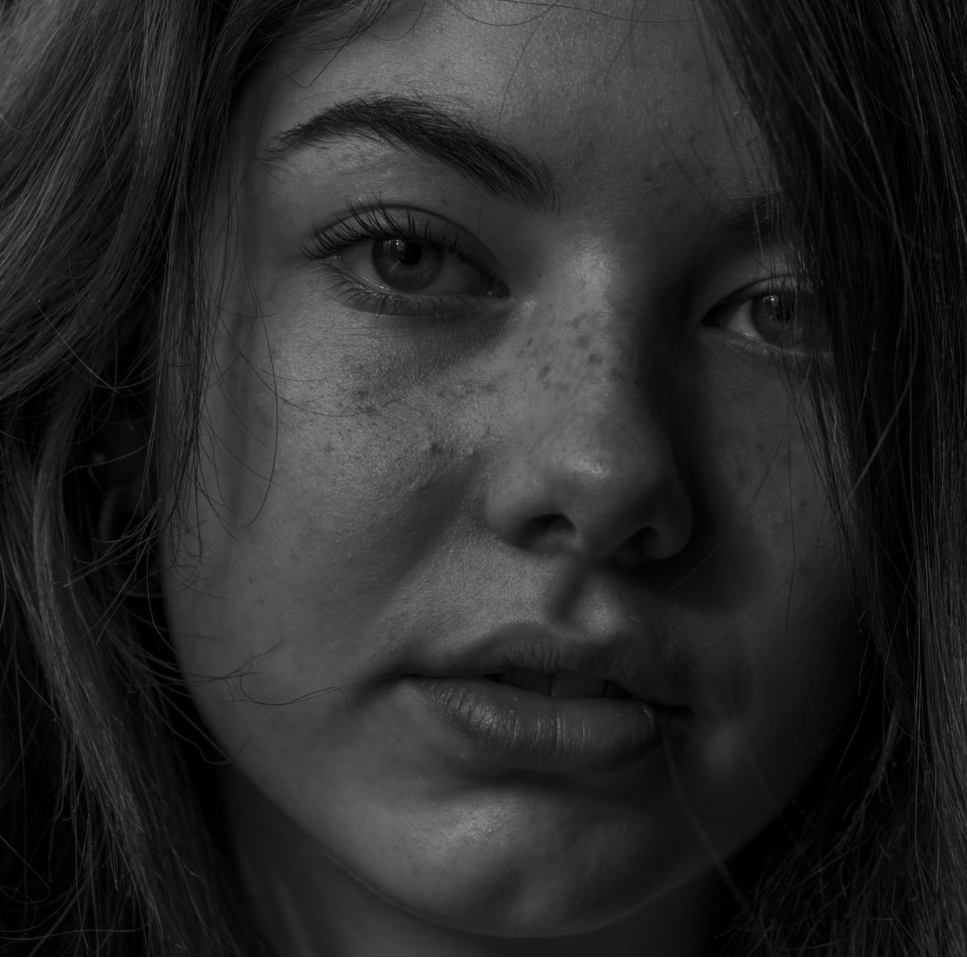
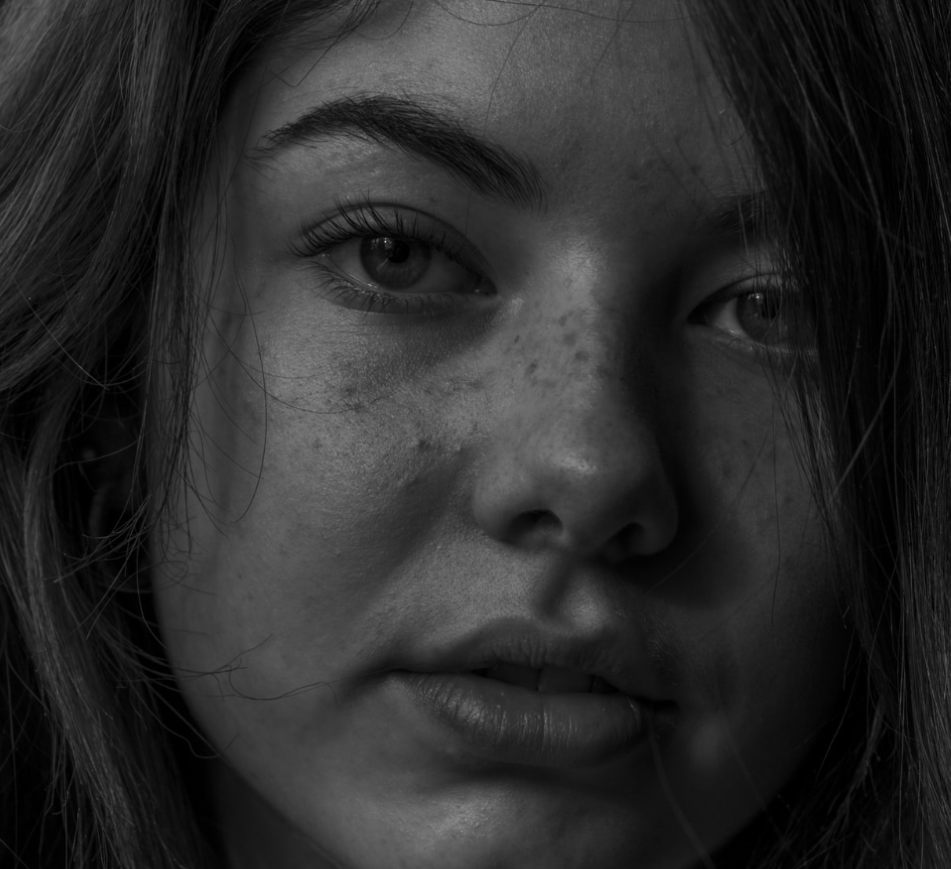
update

diff --git a/0/home.html b/0/home.html
@@ -9,30 +9,110 @@
 					</div>
 				</div>
 				<div class='col-6 mains_p__ID'>
-					<img style='max-height: 100%;' width='960' height='869' src="m/images/page1_1.png"  ></img>							
+					<img style='max-height: 100%;' width='935' height='869' src="m/images/page1.png"  ></img>							
 				</div>
 			</div>
-<!--		<div style='text-align: center;color:#fff;position:absolute;bottom:10px;font-size:150%;width:100%;'>
-			<div id=scroll_down__ID style='display:inline-block;padding:10px 20px;cursor:pointer'>
-				<i class="fas fa-angle-double-down"></i>
-				<br>Scroll
-			</div>-->
 		</div>
 	</div>
 	<div id=page2__ID class=home_page_1>
-			<div class="container-fluid">
-					<div class='row h-100 align-items-center'>
-						<div class='col-6 mains_p__ID  d-flex justify-content-center'>
-							<img style='max-height: 100%;' width='408' height='869' src="m/images/page2_2.png"  ></img>							
-						</div>
-						<div class='col-6 mons__ID d-flex justify-content-center '  >
-								<div class='mains__ID'>
-									<p style='font-size: 24px;'>Comeback—the world’s first Complement™ to inner motivation, relaxed focus and everyday endurance.</p>
-									<p style='font-size: 16px;'>A unique fusion of all-natural, clinically-tested select organic ingredients crafted by Dr Patric Jansson—former tennis professional and leading researcher in motivation and medicine.</p>		
-								</div>
-							</div>
-						</div>
+		<div class="container-fluid">
+			<div class='row h-100 align-items-center'>
+				<div class='col-6 mains_p__ID  d-flex justify-content-center'>
+					<img style='max-height: 100%;' width='408' height='869' src="m/images/page2_2.png"  ></img>							
+				</div>
+				<div class='col-6 mons__ID d-flex justify-content-center '  >
+					<div class='mains__ID'>
+						<p style='font-size: 24px;'>Comeback—the world’s first Complement™ to inner motivation, relaxed focus and everyday endurance.</p>
+						<p style='font-size: 16px;'>A unique fusion of all-natural, clinically-tested select organic ingredients crafted by Dr Patric Jansson—former tennis professional and leading researcher in motivation and medicine.</p>		
+						<p style='font-size: 24px;'><a id=learn_more__ID><u>Learn more</u>&nbsp;&nbsp;&nbsp;&nbsp;<img src="m/images/right-arrow-black.png"  ></img></a>&nbsp;&nbsp;&nbsp;<a id=buy_now__ID><u>Buy now</u>&nbsp;&nbsp;&nbsp;&nbsp;<img src="m/images/right-arrow-black.png"  ></img></a></p>
+					</div>
+				</div>
 			</div>
+		</div>
+	</div>
+	<div id=page3__ID class=home_page_1>
+		<div class="container-fluid">
+			<div class='row h-100 align-items-center'>
+				<div class='col-8 mons__ID d-flex justify-content-center '  >
+					<div class='mains__ID'>
+						<p style='font-size: 24px;'>Product Features</p>
+						<p style='font-size: 16px;'>Lorem ipsum dolor sit amet, consectetuer adipiscing elit, sed diam nonummy nibh euismod tincidunt ut laoreet dolore magna aliquam erat volutpat. Ut wisi enim ad minim veniam, quis nostrud exerci tation ullamcorper suscipit lobortis nisl ut aliquip ex ea commodo consequat. </p>		
+						<div class="row">
+                            <div class="col-lg-6" style="text-align: left;"> 
+								<img src="m/images/circle.png"  ></img> Lorem ipsum<br>
+								<img src="m/images/circle.png"  ></img> Dolor sit amet<br>
+								<img src="m/images/circle.png"  ></img> Consectetur adipisicin<br>
+								<img src="m/images/circle.png"  ></img> Sed do eiusmo<br>
+                            </div>	
+							<div class="col-lg-6" style="text-align: left;"> 
+								<img src="m/images/circle.png"  ></img> Lorem ipsum<br>
+								<img src="m/images/circle.png"  ></img> Dolor sit amet<br>
+								<img src="m/images/circle.png"  ></img> Consectetur adipisicin<br>
+								<img src="m/images/circle.png"  ></img> Sed do eiusmo<br>
+                            </div>		
+                        </div>
+					</div>
+				</div>
+				<div class='col-4 mains_p__ID ' style='background-color: rgb(216, 213, 208);'>
+					<img style='max-height: 100%;' width='613' height='869' src="m/images/page3_3.png"  ></img>							
+				</div>
+			</div>
+		</div>
+	</div>
+	<div id=page4__ID class=home_page_1>
+		<div class="container-fluid">
+			<div class='row h-100 align-items-center'>
+				<div class='col-8 mains_p__ID  d-flex justify-content-center ' style='background-color: rgb(247, 247, 247);'>
+					<img style='max-height: 100%;' width='1269' height='869' src="m/images/page4_4.png"  ></img>							
+				</div>
+				<div class='col-4 mons__ID   d-flex justify-content-center '   >
+					<div class='mains__ID'>
+						<p style='font-size: 24px;'>Complement™ your Comeback.</p>
+						<p style='font-size: 16px;'>Comeback is taken as a daily shot—designed to complement your natural body processes, helping you to deal with everyday stressors and feel like yourself again.</p>		
+						<p style='font-size: 16px;'>Rather than adding ‘unnatural’ energy or turning off the tired or stress signals of your body through caffeination, supplementation and medication—Comeback works with your body and complements its processes. The unique ingredients in Comeback are combined to support inner motivation, relaxed focus and everyday endurance throughout your day.</p>		
+						<p><button type="button" id=buy__ID class="btn-outline-light text-dark">Buy &nbsp;&nbsp;&nbsp;&nbsp;&nbsp;&nbsp;&nbsp;<img src="m/images/right-arrow-black.png"  ></img></button></p>
+					</div>
+				</div>
+			</div>
+		</div>
+	</div>
+	<div id=page5__ID class=home_page_1>
+		<div class="container-fluid">
+			<div class='row h-100 align-items-center'>
+				<div class='col-9 mons__ID d-flex justify-content-center '  >
+					<div class='mains_wide__ID'>
+						<p style='font-size: 24px;'>You get the best results when you work together.</p>
+						<p style='font-size: 16px;'>At Comeback we believe that if we support each other in life—we will go further, do better and have more fun along the way. That’s why Comeback is not only a product but also a community of people supporting each other to make their comeback. </p>		
+						<p style='font-size: 16px;'>Join our Comeback communities on Instagram and Facebook for exclusive access to the information, insights and ideas helping thousands of people like you to make your comeback.</p>		
+						<p><button type="button" id=buy2__ID class="btn-outline-light text-dark">Buy &nbsp;&nbsp;&nbsp;&nbsp;&nbsp;&nbsp;&nbsp;<img src="m/images/right-arrow-black.png"  ></img></button></p>
+					</div>
+				</div>
+				<div class='col-3 mains_p__ID  d-flex justify-content-center'>
+					<img style='max-height: 100%;' width='476' height='869' src="m/images/page5_5.png"  ></img>							
+				</div>
+			</div>
+		</div>
+	</div>
+	<div id=page6__ID class=home_page_1>
+		<div class="container-fluid">
+			<div class='row h-100 align-items-center'>
+				<div class='col-6 mons__ID d-flex justify-content-center '  >
+					<div class='mains__ID'>
+						<p style='font-size: 37px;'>“It’s not a matter of who you were in the past, but who you choose to be today”.</p>
+						<p style='font-size: 16px;'>Dr Pat Jansson.</p>		
+					</div>
+				</div>
+				<div class='col-6 mons__ID d-flex justify-content-center '  >
+					<div class='mains__ID'>
+						<p style='font-size: 24px;'>Introducing The Comeback Roadmap.</p>
+						<p style='font-size: 16px;'>Comeback Complements™ support the body to create the best possible conditions to make your comeback in life—however a product on its own is never the complete answer. That’s why we have created The Comeback Roadmap. A short guide for all of those joining us on this journey. We compressed and distilled everything we’ve learnt from years of living and studying philosophy, psychology and the body into simple and succinct ideas—structured into clear directives for you to make the most of every day. It’s a book that makes you look at yourself in a new light.</p>		
+						<p style='font-size: 16px;'>Are you ready to write the next chapter of your life’s story?</p>		
+						<p><button type="button" id=buy3__ID class="btn-outline-light text-dark">Buy &nbsp;&nbsp;&nbsp;&nbsp;&nbsp;&nbsp;&nbsp;<img src="m/images/right-arrow-black.png"  ></img></button></p>
+					</div>
+				</div>
+			</div>
+		</div>
+	</div>
 	<script>
 		$('#scroll_down__ID').on('click',function(e){
 			e.preventDefault();
@@ -45,12 +125,18 @@
 	        overflow:auto;
 			/*animation: vm_module_fadein 1.0s, D__ID 3s;*/
 		}
-		#page__ID,#page2__ID{
+		#page__ID,#page2__ID,#page3__ID,#page4__ID,#page5__ID{
 			height:100%;
 			display: flex;
 			align-items: center;
 			background: rgb(233, 230, 222);
 			border-bottom: 1px solid;
+		}
+		#page6__ID{
+			height:100%;
+			display: flex;
+			align-items: center;
+			background: rgb(233, 230, 222);
 		}
 		.panel__ID{
 			color:#fff;
@@ -62,6 +148,11 @@
 			font-family: "Montserrat";
             font-weight: lighter;
 			width:400px;
+		}
+		.mains_wide__ID{
+			font-family: "Montserrat";
+            font-weight: lighter;
+			width:700px;
 		}
 		#page__ID h2{
 			text-shadow: 2px 2px 2px #fff;
@@ -75,6 +166,26 @@
 	            animation: vm_module_fadein 1.0s;
 	        }
 	    }
+		#learn_more__ID{
+			cursor:pointer;
+		}
+		#buy_now__ID{
+			cursor:pointer;
+		}
+        #buy__ID,#buy2__ID,#buy3__ID{
+            display: inline-block;
+            font-weight: 400;
+            text-align: center;
+            vertical-align: middle;
+            background-color: transparent;
+            border: 1px solid;
+            padding: 1.5rem 2rem;
+            font-size: 0.8rem;
+            line-height: 1.5;
+            font-weight: bold;
+            letter-spacing: 0.2rem;
+        }
+
 		#scroll_down__ID {
 			color:#fff;
 			animation:scroll__ID 8s;

diff --git a/0/footer.html b/0/footer.html
@@ -1,32 +1,13 @@
 <div id=D__ID>
     <div id=footer__ID>
+        <hr>
         <div class=row>
-            <div class="col-lg-6">
-                <div style="display:table;height:100%;width:100%;">
-                    <div style='display:table-cell;vertical-align:middle'><a target="_blank" style="color:#fff" href="https://www.vmiis.com">https://www.vmiis.com</a></div>
-                </div>
+            <div class="col-6 d-flex justify-content-left" style='padding-left:3rem;'>
+                    <p style='font-size: 24px;'>Connect with us.</p>
             </div>
-            <div class=col-lg-6>
-                <ul class="list-inline">
-                    <li class="list-inline-item"><a target=_blank href="https://www.vmiis.com">
-                        <span class="fa-stack fa-lg icon-facebook">
-                        <i class="fa fa-square fa-stack-2x"></i>
-                        <i class="fa fa-facebook fa-stack-1x"></i>
-                        </span>
-                    </a></li>
-                    <li class="list-inline-item"><a target=_blank href="https://www.vmiis.com">
-                        <span class="fa-stack fa-lg icon-twitter">
-                        <i class="fa fa-square fa-stack-2x"></i>
-                        <i class="fa fa-twitter fa-stack-1x"></i>
-                        </span>
-                    </a></li>
-                    <li class="list-inline-item"><a target=_blank href="https://www.vmiis.com">
-                        <span class="fa-stack fa-lg icon-gplus">
-                        <i class="fa fa-square fa-stack-2x"></i>
-                        <i class="fa fa-plus fa-stack-1x"></i>
-                        </span>
-                    </a></li>
-                </ul>
+            <div class=col-3>
+            </div>
+            <div class=col-3>
             </div>
         </div>
     </div>
@@ -39,17 +20,26 @@
         #D__ID{
             overflow: hidden;
         }
+        hr{
+            margin-top: 1rem;
+            margin-bottom: 1rem;
+            border: 0;
+            border-top: 2px solid rgba(0, 0, 0, 0.3);
+            margin-left: 30px;
+            margin-right: 30px;
+        }
         #footer__ID a{
             color: #fff;
             font-size:120%;
             margin-right:10px;
         }
         #footer__ID{
+            font-family: "Montserrat";
             height:90px;
             overflow: hidden;
-            color: #fff;
+            color: #000;
             padding: 12px;
-            background-color: #333;
+            background-color: rgb(233, 230, 222);
             font-size:100%;
             text-align: center;
         }
